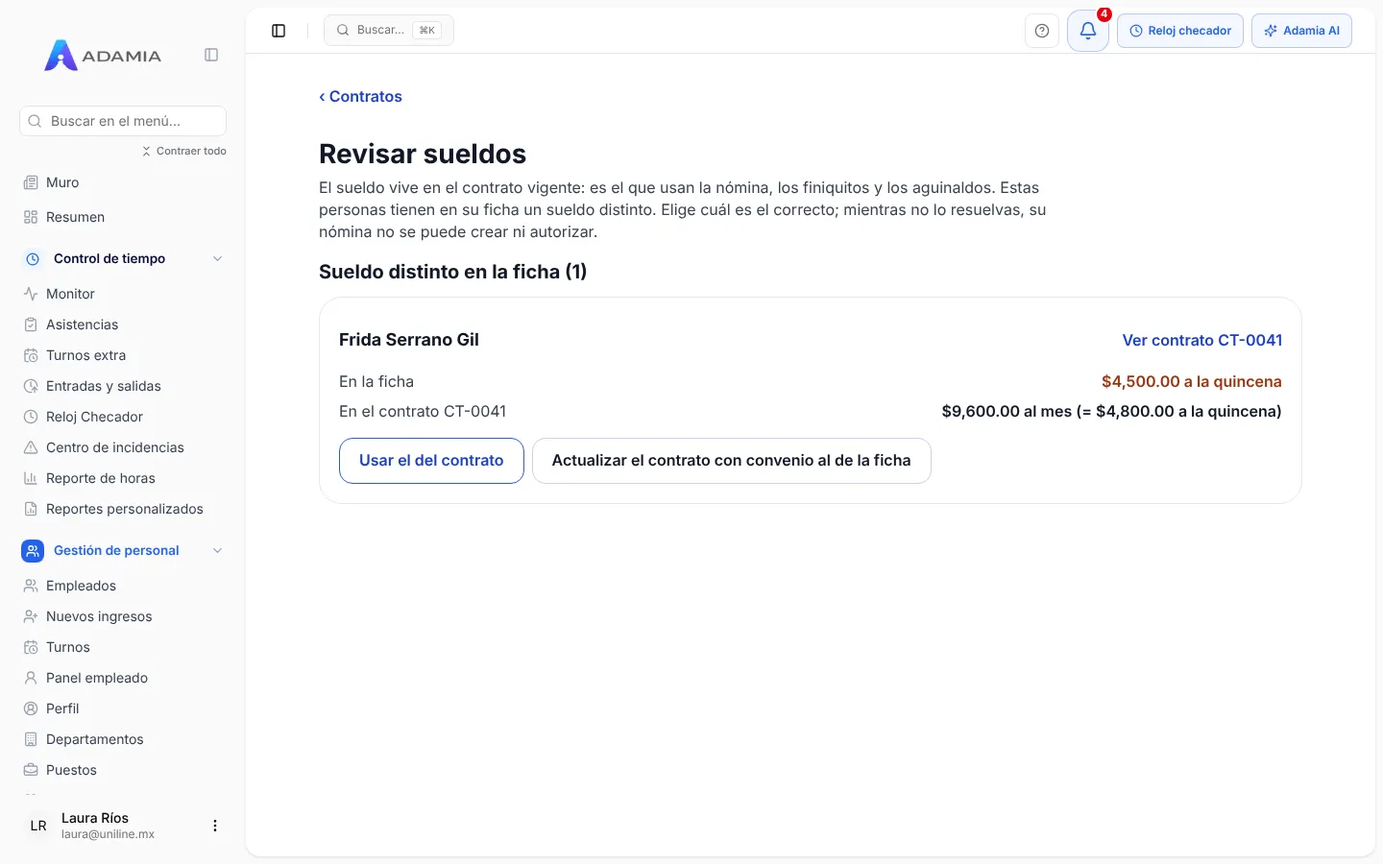
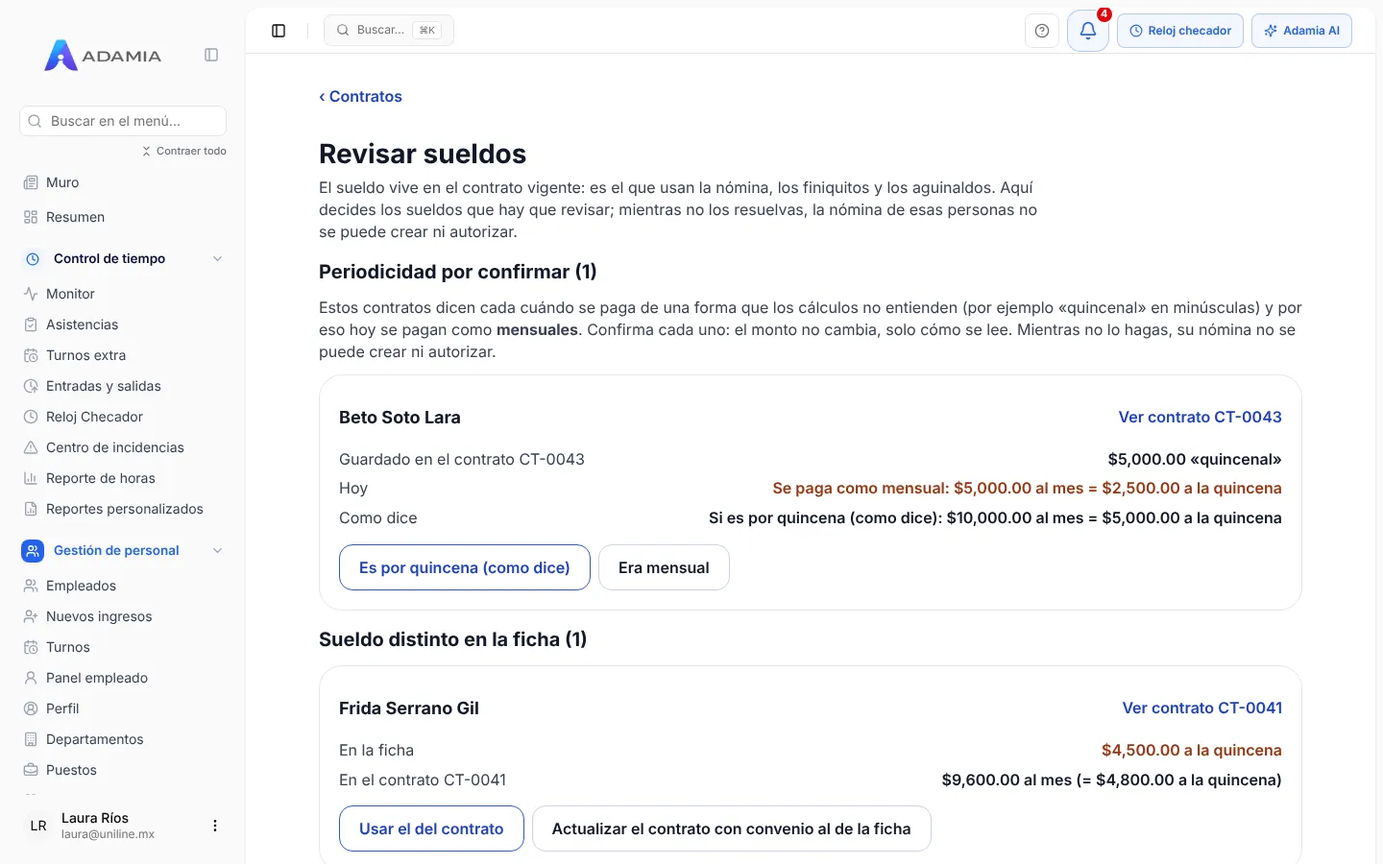
Revisar sueldos: periodicidad por confirmar; hojas de celular y ventana de cambios más legibles
- «Periodicidad por confirmar» (opción C del dueño) en /panel/contratos/revisar-sueldos: persona, folio, lo guardado,
  cómo se paga hoy (como mensual) y cómo quedaría como dice; «Es por quincena (como dice)» o «Era mensual» con
  confirmación (el monto no cambia). Aviso en el detalle del contrato y en la nómina (cada persona con su motivo).
  Textos en src/lib/contratos/periodicidadPorConfirmar.mjs con pruebas (scripts/test-contratos.mjs).
- Hojas de celular (drawer.jsx): ya no se cierran al tocar afuera; solo con su X, Esc o deslizando. El menú del Navbar
  es `menu` y sí. Los filtros de Empleados y Asistencias llevan una X de 48 px. Prueba: scripts/verify-hojas.mjs (CI).
- Ventana «Tienes cambios sin guardar»: letra de 16 px y botones de 48 px (lo revisa verify-contratos).
- verify-contratos: sección de periodicidad, su decisión y el aviso de la nómina. Ayuda y captura de Revisar sueldos.

Claude-Session: https://claude.ai/code/session_01NhptVx6z76FbmDFgGXfLvf

diff --git a/src/app/panel/contratos/revisar-sueldos/page.jsx b/src/app/panel/contratos/revisar-sueldos/page.jsx
@@ -2,7 +2,8 @@
 
 // «Revisar sueldos» (27/11/2026, decisión del dueño: nunca se cambia un sueldo en silencio). El sueldo vive en el
 // contrato vigente; si la ficha dice otro, RH elige cuál es el correcto. Mientras haya diferencias, la nómina de esas
-// personas no se crea ni se autoriza (se puede ver). Aquí también se corrigen las personas con más de un contrato vigente.
+// personas no se crea ni se autoriza (se puede ver). Aquí también se corrigen las personas con más de un contrato vigente
+// y (27/11/2026, opción C del dueño) se confirma la periodicidad de los contratos que los cálculos leían como mensuales.
 import { useState } from "react";
 import Link from "next/link";
 import useSWR from "swr";
@@ -13,6 +14,7 @@ import { TarjetaDetalle, BotonAccion, FilaDato, ListaDatos } from "@/components/
 import { Dialog, DialogContent, DialogDescription, DialogFooter, DialogHeader, DialogTitle } from "@/components/ui/dialog";
 import { contratosApi } from "@/lib/contratosApi";
 import { dinero, porPeriodo, fechaCorta, TIPOS, mensajeDeError } from "@/lib/contratos/detalleContrato.mjs";
+import { textoPeriodicidad, explicaDecision } from "@/lib/contratos/periodicidadPorConfirmar.mjs";
 
 const OPCIONES = {
   usar_contrato: {
@@ -41,7 +43,10 @@ export default function RevisarSueldosPage() {
     setEnviando(true);
     setErrorDialogo("");
     try {
-      if (confirmar.tipo === "sueldo") {
+      if (confirmar.tipo === "periodicidad") {
+        const r = await contratosApi.resolverPeriodicidad({ idEmpresa, idEmpleado: confirmar.persona.id_empleado, idContrato: confirmar.persona.id_contrato, decision: confirmar.decision });
+        enqueueSnackbar(`Listo: el contrato ${confirmar.persona.folio ?? ""} quedó ${String(r.despues).toLowerCase()}.`, { variant: "success" });
+      } else if (confirmar.tipo === "sueldo") {
         await contratosApi.resolverSueldo({ idEmpresa, idEmpleado: confirmar.persona.id_empleado, decision: confirmar.decision });
         enqueueSnackbar(`Listo: el sueldo de ${confirmar.persona.nombre} ya coincide.`, { variant: "success" });
       } else {
@@ -59,13 +64,15 @@ export default function RevisarSueldosPage() {
 
   const diferencias = data?.diferencias ?? [];
   const duplicados = data?.duplicados ?? [];
+  const periodicidades = data?.periodicidades ?? [];
+  const tituloConfirmar = !confirmar ? "" : confirmar.tipo === "periodicidad" ? confirmar.texto : confirmar.tipo === "sueldo" ? OPCIONES[confirmar.decision].texto : "Conservar un contrato";
   return (
     <div className="mx-auto flex w-full max-w-5xl flex-col gap-4 text-[17px] text-[#111827] lg:text-[16px]" data-vista="revisar-sueldos">
       <nav aria-label="Ruta"><Link href="/panel/contratos" className="inline-flex min-h-12 items-center text-[17px] font-semibold text-[#1E40C4] no-underline lg:text-[16px]">‹ Contratos</Link></nav>
       <header className="flex flex-col gap-1">
         <h1 className="m-0 text-[26px] font-bold lg:text-[28px]">Revisar sueldos</h1>
         <p className="m-0 max-w-3xl text-[#374151]">
-          El sueldo vive en el contrato vigente: es el que usan la nómina, los finiquitos y los aguinaldos. Estas personas tienen en su ficha un sueldo distinto. Elige cuál es el correcto; mientras no lo resuelvas, su nómina no se puede crear ni autorizar.
+          El sueldo vive en el contrato vigente: es el que usan la nómina, los finiquitos y los aguinaldos. Aquí decides los sueldos que hay que revisar; mientras no los resuelvas, la nómina de esas personas no se puede crear ni autorizar.
         </p>
       </header>
       {empresas.length > 1 ? (
@@ -83,10 +90,38 @@ export default function RevisarSueldosPage() {
         <p className="m-0 rounded-2xl bg-[#EEF2FF] px-4 py-3 text-[#1E3A8A]">Puedes ver las diferencias; para resolverlas falta que ADAMIA termine de actualizar tu cuenta.</p>
       ) : null}
 
-      {data && !diferencias.length && !duplicados.length ? (
+      {data && !diferencias.length && !duplicados.length && !periodicidades.length ? (
         <TarjetaDetalle titulo="Todo en orden" data-vacio>
           <p className="m-0 text-[#374151]">Los sueldos de las fichas coinciden con sus contratos vigentes y nadie tiene dos contratos vigentes.</p>
         </TarjetaDetalle>
+      ) : null}
+
+      {periodicidades.length ? (
+        <section aria-labelledby="h-periodicidad" className="flex flex-col gap-3" data-seccion="periodicidad">
+          <h2 id="h-periodicidad" className="m-0 text-[20px] font-bold">Periodicidad por confirmar ({periodicidades.length})</h2>
+          <p className="m-0 text-[#374151]">
+            Estos contratos dicen cada cuándo se paga de una forma que los cálculos no entienden (por ejemplo «quincenal» en minúsculas) y por eso hoy se pagan como <b>mensuales</b>. Confirma cada uno: el monto no cambia, solo cómo se lee. Mientras no lo hagas, su nómina no se puede crear ni autorizar.
+          </p>
+          {periodicidades.map((p) => {
+            const t = textoPeriodicidad(p);
+            return (
+              <TarjetaDetalle key={p.id_contrato} titulo={p.nombre} data-periodicidad={p.id_contrato}
+                accion={<Link href={`/panel/contratos/${p.id_contrato}`} className="inline-flex min-h-12 items-center font-semibold text-[#1E40C4]">Ver contrato {p.folio ?? ""}</Link>}>
+                <ListaDatos>
+                  <FilaDato etiqueta={`Guardado en el contrato ${p.folio ?? ""}`} valor={t.guardado} />
+                  <FilaDato etiqueta="Hoy" valor={t.hoy} tono="aviso" />
+                  {t.comoDice ? <FilaDato etiqueta="Como dice" valor={t.comoDice} /> : null}
+                </ListaDatos>
+                <div className="mt-2 flex flex-col gap-2 sm:flex-row sm:flex-wrap">
+                  {t.opciones.map((o, i) => (
+                    <BotonAccion key={o.decision} accion={{ clave: `periodicidad-${o.decision}`, texto: o.texto, tipo: i === 0 ? "contorno" : "normal",
+                      onClick: () => { setErrorDialogo(""); setConfirmar({ tipo: "periodicidad", decision: o.decision, texto: o.texto, persona: p }); } }} />
+                  ))}
+                </div>
+              </TarjetaDetalle>
+            );
+          })}
+        </section>
       ) : null}
 
       {diferencias.length ? (
@@ -138,9 +173,9 @@ export default function RevisarSueldosPage() {
       <Dialog open={Boolean(confirmar)} onOpenChange={(v) => { if (!v) setConfirmar(null); }}>
         <DialogContent className="w-[calc(100vw-24px)] max-w-lg rounded-3xl p-5 sm:p-6">
           <DialogHeader className="text-left">
-            <DialogTitle className="text-[20px] font-bold">{confirmar?.tipo === "sueldo" ? OPCIONES[confirmar.decision].texto : "Conservar un contrato"}</DialogTitle>
+            <DialogTitle className="text-[20px] font-bold">{tituloConfirmar}</DialogTitle>
             <DialogDescription className="text-[17px] text-[#374151] lg:text-[16px]">
-              {confirmar?.tipo === "sueldo"
+              {confirmar?.tipo === "periodicidad" ? explicaDecision(confirmar.persona, confirmar.decision) : confirmar?.tipo === "sueldo"
                 ? OPCIONES[confirmar.decision].explica(confirmar.persona)
                 : confirmar ? `Se queda vigente ${confirmar.persona.contratos.find((c) => Number(c.id) === Number(confirmar.conservar))?.folio}; los demás contratos de ${confirmar.persona.nombre} se terminan con el motivo «Duplicado».` : ""}
             </DialogDescription>

diff --git a/src/components/nomina/AvisoSueldosPorRevisar.jsx b/src/components/nomina/AvisoSueldosPorRevisar.jsx
@@ -5,20 +5,42 @@ import { dinero } from "@/lib/nomina/nomina.mjs";
 
 const POR = { Mensual: "al mes", Quincenal: "a la quincena", Catorcenal: "a la catorcena", Semanal: "a la semana", Diario: "al día", "Por hora": "por hora" };
 
-/** personas: [{ id_empleado, nombre, sueldo_ficha, periodo_ficha, contrato_en_periodo_ficha, folio }]. accion: «crear» | «autorizar». */
+/**
+ * personas: [{ motivo, id_empleado, nombre, folio, … }]. motivo «diferencia»: sueldo_ficha, periodo_ficha,
+ * contrato_en_periodo_ficha. motivo «periodicidad_por_confirmar» (27/11/2026): periodicidad_guardada (el contrato se paga
+ * como mensual hasta que RH la confirme). accion: «crear» | «autorizar».
+ */
 export default function AvisoSueldosPorRevisar({ personas = [], accion = "autorizar" }) {
   if (!personas.length) return null;
+  const periodicidad = personas.filter((p) => p.motivo === "periodicidad_por_confirmar");
+  const diferencia = personas.filter((p) => p.motivo !== "periodicidad_por_confirmar");
   return (
     <div role="alert" className="rounded-2xl border border-amber-300 bg-amber-50 px-4 py-3 text-[16px] text-amber-900" data-aviso="sueldos-por-revisar">
       <p className="m-0 font-bold">No se puede {accion} esta nómina: hay sueldos por revisar.</p>
-      <p className="m-0 mt-1">El sueldo de la ficha no coincide con el del contrato vigente de:</p>
-      <ul className="m-0 mt-1 list-disc pl-5">
-        {personas.map((p) => (
-          <li key={p.id_empleado}>
-            <b>{p.nombre}</b>: ficha {dinero(p.sueldo_ficha)} {POR[p.periodo_ficha] ?? ""} · contrato{p.folio ? ` ${p.folio}` : ""} {dinero(p.contrato_en_periodo_ficha)} {POR[p.periodo_ficha] ?? ""}
-          </li>
-        ))}
-      </ul>
+      {diferencia.length ? (
+        <>
+          <p className="m-0 mt-1">El sueldo de la ficha no coincide con el del contrato vigente de:</p>
+          <ul className="m-0 mt-1 list-disc pl-5">
+            {diferencia.map((p) => (
+              <li key={p.id_empleado}>
+                <b>{p.nombre}</b>: ficha {dinero(p.sueldo_ficha)} {POR[p.periodo_ficha] ?? ""} · contrato{p.folio ? ` ${p.folio}` : ""} {dinero(p.contrato_en_periodo_ficha)} {POR[p.periodo_ficha] ?? ""}
+              </li>
+            ))}
+          </ul>
+        </>
+      ) : null}
+      {periodicidad.length ? (
+        <>
+          <p className="m-0 mt-1">Periodicidad por confirmar (su contrato se está pagando como mensual):</p>
+          <ul className="m-0 mt-1 list-disc pl-5" data-periodicidad-por-confirmar>
+            {periodicidad.map((p) => (
+              <li key={p.id_empleado}>
+                <b>{p.nombre}</b>: contrato{p.folio ? ` ${p.folio}` : ""} dice «{p.periodicidad_guardada ?? "sin periodicidad"}»
+              </li>
+            ))}
+          </ul>
+        </>
+      ) : null}
       <Link href="/panel/contratos/revisar-sueldos" className="mt-2 inline-flex min-h-12 items-center rounded-[14px] bg-[#2C56E8] px-5 font-bold text-white no-underline hover:bg-[#1E40C4]">
         Revisar sueldos
       </Link>

diff --git a/src/components/cambios/CambiosPendientes.jsx b/src/components/cambios/CambiosPendientes.jsx
@@ -23,6 +23,7 @@ import { debeDetenerEnlace, decidirTrasGuardar, rutaInterna } from "@/lib/cambio
 const Contexto = createContext(null);
 const MARCA = "__cambiosPendientes";
 
+// (27/11/2026, regla del dueño) La ventana se lee bien a los 60 años: letra de 16 px y botones de 48 px.
 export function CambiosPendientesProvider({ children }) {
   const router = useRouter();
   const guardias = useRef(new Map()); // id → { hayCambios, guardar, descartada }
@@ -194,15 +195,15 @@ export function CambiosPendientesProvider({ children }) {
       <AlertDialog open={Boolean(pregunta)} onOpenChange={(abierto) => { if (!abierto) seguirEditando(); }}>
         <AlertDialogContent data-dialogo-cambios className="max-w-[calc(100%-2rem)] gap-5 sm:max-w-md">
           <AlertDialogHeader>
-            <AlertDialogTitle className="text-[#080d36]">Tienes cambios sin guardar</AlertDialogTitle>
-            <AlertDialogDescription>¿Qué quieres hacer? Si sales sin guardar, los cambios se pierden.</AlertDialogDescription>
+            <AlertDialogTitle className="text-[20px] font-bold text-[#080d36]">Tienes cambios sin guardar</AlertDialogTitle>
+            <AlertDialogDescription className="text-[16px] text-[#374151]">¿Qué quieres hacer? Si sales sin guardar, los cambios se pierden.</AlertDialogDescription>
           </AlertDialogHeader>
           <AlertDialogFooter className="flex-col gap-2 sm:flex-col sm:justify-stretch">
             <button
               type="button"
               onClick={guardarYSalir}
               disabled={guardando}
-              className="min-h-[44px] w-full rounded-lg bg-[#2563EB] px-4 text-sm font-semibold text-white hover:bg-[#1d4ed8] disabled:opacity-60"
+              className="min-h-12 w-full rounded-lg bg-[#2563EB] px-4 text-[16px] font-semibold text-white hover:bg-[#1d4ed8] disabled:opacity-60"
             >
               {guardando ? "Guardando…" : "Guardar y salir"}
             </button>
@@ -210,7 +211,7 @@ export function CambiosPendientesProvider({ children }) {
               type="button"
               onClick={salirSinGuardar}
               disabled={guardando}
-              className="min-h-[44px] w-full rounded-lg border border-red-200 bg-white px-4 text-sm font-semibold text-red-700 hover:bg-red-50 disabled:opacity-60"
+              className="min-h-12 w-full rounded-lg border border-red-200 bg-white px-4 text-[16px] font-semibold text-red-700 hover:bg-red-50 disabled:opacity-60"
             >
               Salir sin guardar
             </button>
@@ -219,7 +220,7 @@ export function CambiosPendientesProvider({ children }) {
               onClick={seguirEditando}
               disabled={guardando}
               autoFocus
-              className="min-h-[44px] w-full rounded-lg px-4 text-sm font-medium text-slate-600 hover:bg-slate-100 disabled:opacity-60"
+              className="min-h-12 w-full rounded-lg px-4 text-[16px] font-semibold text-[#374151] hover:bg-slate-100 disabled:opacity-60"
             >
               Seguir editando
             </button>

diff --git a/src/app/panel/registro-asistencia/MobileFiltersDrawer.jsx b/src/app/panel/registro-asistencia/MobileFiltersDrawer.jsx
@@ -7,6 +7,7 @@ import {
   DrawerTitle,
   DrawerDescription,
 } from "@/components/ui/drawer";
+import { X } from "lucide-react";
 import { Switch } from "@/components/ui/switch";
 import { cn } from "@/lib/utils";
 import dayjs from "dayjs";
@@ -172,8 +173,8 @@ export default function MobileFiltersDrawer({
         <div className="w-10 h-1.5 rounded-full bg-gray-300 mx-auto mt-3 shrink-0" />
 
         <div className="px-6 pt-4 pb-3 shrink-0 border-b border-gray-100">
-          <div className="flex items-start justify-between gap-3">
-            <div>
+          <div className="flex items-start gap-3">
+            <div className="mr-auto">
               <DrawerTitle className="text-xl font-extrabold tracking-tight text-gray-900">
                 Filtros
               </DrawerTitle>
@@ -192,6 +193,15 @@ export default function MobileFiltersDrawer({
               className="text-sm font-semibold text-brand min-h-[44px] px-2"
             >
               Limpiar
+            </button>
+            <button
+              type="button"
+              aria-label="Cerrar filtros"
+              onClick={() => onOpenChange(false)}
+              data-cerrar-hoja
+              className="flex h-12 w-12 shrink-0 items-center justify-center rounded-full border border-gray-200 bg-white text-gray-700 active:bg-gray-50"
+            >
+              <X className="h-6 w-6" aria-hidden="true" />
             </button>
           </div>
         </div>

diff --git a/src/app/panel/empleados/MobileEmpleadosFiltersDrawer.jsx b/src/app/panel/empleados/MobileEmpleadosFiltersDrawer.jsx
@@ -6,6 +6,7 @@ import {
   DrawerTitle,
   DrawerDescription,
 } from "@/components/ui/drawer";
+import { X } from "lucide-react";
 import { cn } from "@/lib/utils";
 
 function FilterSection({ title, options, selected, onChange }) {
@@ -85,8 +86,8 @@ export default function MobileEmpleadosFiltersDrawer({
         <div className="w-10 h-1.5 rounded-full bg-gray-300 mx-auto mt-3 shrink-0" />
 
         <div className="px-6 pt-4 pb-2 shrink-0">
-          <div className="flex items-start justify-between gap-3">
-            <div>
+          <div className="flex items-start gap-3">
+            <div className="mr-auto">
               <DrawerTitle className="text-xl font-bold text-gray-900">
                 Filtros
               </DrawerTitle>
@@ -100,6 +101,15 @@ export default function MobileEmpleadosFiltersDrawer({
               className="text-sm font-medium text-blue-600"
             >
               Limpiar
+            </button>
+            <button
+              type="button"
+              aria-label="Cerrar filtros"
+              onClick={() => onOpenChange(false)}
+              data-cerrar-hoja
+              className="flex h-12 w-12 shrink-0 items-center justify-center rounded-full border border-gray-200 bg-white text-gray-700 active:bg-gray-50"
+            >
+              <X className="h-6 w-6" aria-hidden="true" />
             </button>
           </div>
         </div>

diff --git a/src/app/panel/contratos/[id]/DetalleContrato.jsx b/src/app/panel/contratos/[id]/DetalleContrato.jsx
@@ -130,6 +130,10 @@ export default function DetalleContrato({ id }) {
       clave: "diferencia", tono: "aviso",
       texto: <>La ficha dice {dinero(data.sueldo.diferencia_ficha.sueldo_ficha, { centavos: "siempre" })} {porPeriodo(data.sueldo.diferencia_ficha.periodo_ficha)} y el contrato {dinero(data.sueldo.diferencia_ficha.contrato_en_periodo_ficha, { centavos: "siempre" })}. Mientras no lo resuelvas no se autoriza la nómina. <Link href="/panel/contratos/revisar-sueldos" className="font-semibold text-[#1E40C4] underline">Revisar sueldos</Link></>,
     } : null,
+    data.sueldo?.periodicidad_por_confirmar ? {
+      clave: "periodicidad", tono: "aviso",
+      texto: <>Este contrato dice que se paga «{data.sueldo.periodicidad_por_confirmar.guardada ?? "sin periodicidad"}» y los cálculos lo están pagando como <b>mensual</b>. Confírmalo en <Link href="/panel/contratos/revisar-sueldos" className="font-semibold text-[#1E40C4] underline">Revisar sueldos</Link>; mientras tanto no se autoriza la nómina.</>,
+    } : null,
     data.otros_vigentes?.length ? {
       clave: "duplicado", tono: "error",
       texto: <>Esta persona tiene otro contrato vigente ({data.otros_vigentes.map((o) => o.folio).join(", ")}). Solo puede haber uno: <Link href="/panel/contratos/revisar-sueldos" className="font-semibold text-[#1E40C4] underline">elige cuál se queda</Link>.</>,

diff --git a/src/components/ui/drawer.jsx b/src/components/ui/drawer.jsx
@@ -31,12 +31,17 @@ const DrawerOverlay = React.forwardRef(({ className, ...props }, ref) => (
 ));
 DrawerOverlay.displayName = DrawerPrimitive.Overlay.displayName;
 
+// (27/11/2026, regla del dueño, docs/vistas-de-detalle.md) Una hoja con contenido (filtros, detalle) NO se cierra con
+// un toque afuera: solo con su botón de cerrar o la X, con Esc o deslizándola hacia abajo. Las que son un MENÚ (menú del
+// Navbar en celular) pasan `menu` y sí se cierran al tocar afuera, como cualquier menú.
 const DrawerContent = React.forwardRef(
-  ({ className, children, pull = true, ...props }, ref) => (
+  ({ className, children, pull = true, menu = false, onPointerDownOutside, onInteractOutside, ...props }, ref) => (
     <DrawerPortal>
       <DrawerOverlay />
       <DrawerPrimitive.Content
         ref={ref}
+        onPointerDownOutside={(e) => { onPointerDownOutside?.(e); if (!menu) e.preventDefault(); }}
+        onInteractOutside={(e) => { onInteractOutside?.(e); if (!menu) e.preventDefault(); }}
         className={cn(
           "fixed inset-x-0 bottom-0 z-50 mt-24 flex h-auto flex-col rounded-t-[10px] border bg-background",
           className,

diff --git a/src/lib/contratosApi.js b/src/lib/contratosApi.js
@@ -110,6 +110,10 @@ export const contratosApi = {
   async resolverSueldo({ idEmpresa, idEmpleado, decision }) {
     return (await axios.post("/checador/contratos/revisar-sueldos/resolver", { id_empresa: idEmpresa, id_empleado: idEmpleado, decision }, { headers: authHeaders() })).data;
   },
+  // (27/11/2026) Periodicidad por confirmar: decision "como_dice" | "mensual". Nunca cambia el monto.
+  async resolverPeriodicidad({ idEmpresa, idEmpleado, idContrato, decision }) {
+    return (await axios.post("/checador/contratos/periodicidad/resolver", { id_empresa: idEmpresa, id_empleado: idEmpleado, id_contrato: idContrato, decision }, { headers: authHeaders() })).data;
+  },
   async resolverDuplicado({ idEmpresa, idEmpleado, conservar }) {
     return (await axios.post("/checador/contratos/duplicados/resolver", { id_empresa: idEmpresa, id_empleado: idEmpleado, conservar }, { headers: authHeaders() })).data;
   },

diff --git a/src/components/Navbar.jsx b/src/components/Navbar.jsx
@@ -326,7 +326,7 @@ const MenuResposive = ({
           height="24"
         />
       </DrawerTrigger>
-      <DrawerContent className="mt-0 inset-y-0 w-60 bottom-0 z-50 rounded-r-sm rounded-l-none px-4 py-4">
+      <DrawerContent menu className="mt-0 inset-y-0 w-60 bottom-0 z-50 rounded-r-sm rounded-l-none px-4 py-4">
         <div className="flex flex-col h-full justify-between">
           <div className="flex flex-col space-y-3 mt-2">
             {mobilePublicLinks.map((item) => (

diff --git a/src/content/ayuda/documentos/contratos.md b/src/content/ayuda/documentos/contratos.md
@@ -4,10 +4,10 @@ resumen: Registra el contrato de cada persona, revisa su sueldo y su texto, fír
 modulo: documentos
 audiencia: [rh, dueno]
 pantallas: [/panel/contratos, /panel/contratos/[id], /panel/contratos/[id]/editar, /panel/contratos/nuevo, /panel/contratos/revisar-sueldos]
-palabras: [contratos, contrato laboral, editar contrato, duplicar contrato, nuevo contrato, vigencia, por vencer, vencido, renovar, convenio, cambiar sueldo, firmar contrato, mandar a firmar, revisar sueldos, sueldo del contrato, contrato vigente, indefinido, temporal, periodo de prueba, terminar contrato]
+palabras: [contratos, contrato laboral, periodicidad por confirmar, quincenal, editar contrato, duplicar contrato, nuevo contrato, vigencia, por vencer, vencido, renovar, convenio, cambiar sueldo, firmar contrato, mandar a firmar, revisar sueldos, sueldo del contrato, contrato vigente, indefinido, temporal, periodo de prueba, terminar contrato]
 orden: 60
 actualizado: 2026-11-27
-fuentes: [src/app/panel/contratos/page.jsx, src/app/panel/contratos/ContratosTable.jsx, src/app/panel/contratos/formulario/FormularioContrato.jsx, src/lib/contratos/formularioContrato.mjs, src/app/panel/contratos/CambiarEstatusContrato.jsx, src/app/panel/contratos/[id]/DetalleContrato.jsx, src/app/panel/contratos/[id]/DialogosContrato.jsx, src/app/panel/contratos/revisar-sueldos/page.jsx, src/lib/contratos/detalleContrato.mjs, src/components/avisos/CampanaAvisos.jsx]
+fuentes: [src/app/panel/contratos/page.jsx, src/app/panel/contratos/ContratosTable.jsx, src/app/panel/contratos/formulario/FormularioContrato.jsx, src/lib/contratos/formularioContrato.mjs, src/lib/contratos/periodicidadPorConfirmar.mjs, src/app/panel/contratos/CambiarEstatusContrato.jsx, src/app/panel/contratos/[id]/DetalleContrato.jsx, src/app/panel/contratos/[id]/DialogosContrato.jsx, src/app/panel/contratos/revisar-sueldos/page.jsx, src/lib/contratos/detalleContrato.mjs, src/components/avisos/CampanaAvisos.jsx]
 ---
 
 ## Para qué sirve
@@ -101,6 +101,16 @@ Si el sueldo de la ficha de alguien no coincide con el de su contrato vigente, *
 
 ![Revisar sueldos: la ficha y el contrato con sueldos distintos](/ayuda/capturas/documentos/revisar-sueldos.webp "Elige cuál sueldo es el correcto")
 
+### Periodicidad por confirmar
+
+Algunos contratos de antes guardaron cada cuándo se paga de una forma que los cálculos no entienden (por ejemplo «quincenal» en minúsculas). Esos contratos **se estaban pagando como mensuales**: un contrato de $5,000 «quincenal» se pagaba como $5,000 al mes, es decir $2,500 a la quincena. Aparecen arriba, en **Periodicidad por confirmar**, y mientras no los confirmes **la nómina de esas personas no se puede crear ni autorizar**.
+
+1. En cada contrato ves lo **Guardado** (el monto y cómo dice que se paga), cómo se paga **Hoy** y cómo quedaría **Como dice**.
+2. Elige `Es por quincena (como dice)` (o por semana, por catorcena…) si el monto es de cada periodo, o `Era mensual` si el monto es del mes.
+3. Toca `Confirmar`. **El monto no cambia**, solo cómo se lee. Queda en el historial del contrato con tu nombre y la fecha.
+
+Si eliges «como dice», la persona cobra distinto a partir de la siguiente nómina que calcules; si su ficha no coincide, aparece después en **Sueldo distinto en la ficha** para que decidas cuál es el correcto.
+
 En la misma pantalla aparecen las personas con **más de un contrato vigente** (de antes): elige cuál se queda y toca `Conservar este y terminar los demás`. No se borra ninguno.
 
 ## Cómo renovar o terminar un contrato
@@ -130,6 +140,7 @@ Solo si nadie lo ha firmado ni se mandó a firmar. Si ya existió, termínalo o 
 
 - **…faltan datos para firmar:** verás «Faltan datos para el contrato: CURP, RFC…». Complétalos en la ficha.
 - **…edito un contrato ya enviado a firmar:** verás que su texto ya no cambia; usa un convenio o una renovación.
+- **…un contrato está en «Periodicidad por confirmar»:** se está pagando como mensual; confírmalo en **Revisar sueldos** para poder crear o autorizar su nómina.
 - **…toco afuera de una ventana:** no se cierra (así no pierdes lo que escribiste). Ciérrala con `Esc`, `Cancelar`, `Guardar` o la **X**.
 - **…un dato guardado no está en la lista:** aparece con «(guardado)» para que veas lo que tiene el contrato; solo cambia si eliges otro.
 - **…la fecha del convenio es futura:** verás «La fecha efectiva no puede ser futura». Regístralo el día que aplique.

diff --git a/src/content/ayuda/nomina/como-se-calcula-la-nomina.md b/src/content/ayuda/nomina/como-se-calcula-la-nomina.md
@@ -24,7 +24,7 @@ Recursos Humanos y el dueño de la cuenta. Para el empleado, el recibo en PDF mu
 
 El cálculo usa el **sueldo del contrato vigente** de cada persona; si no tiene contrato vigente, el de su ficha (y el recibo lo marca «sin contrato vigente»). De la ficha usa también el periodo de pago (con él entra a la nómina), el medio de pago y, si es mixto, cuánto va por transferencia, y sus horas por día. De **Asistencias** usa el horario, las checadas, faltas, permisos, festivos y horas extra autorizadas.
 
-> **Importante:** si el sueldo de la ficha de alguien no coincide con el de su contrato vigente, la nómina **no se puede crear ni autorizar** hasta que decidas cuál es el correcto en **Revisar sueldos**. Puedes ver la nómina mientras tanto. Ve [Contratos laborales](/ayuda/documentos/contratos#como-revisar-sueldos).
+> **Importante:** si el sueldo de la ficha de alguien no coincide con el de su contrato vigente, la nómina **no se puede crear ni autorizar** hasta que decidas cuál es el correcto en **Revisar sueldos**. Lo mismo si su contrato tiene la **periodicidad por confirmar** (se estaba pagando como mensual). Puedes ver la nómina mientras tanto. Ve [Contratos laborales](/ayuda/documentos/contratos#como-revisar-sueldos).
 
 ![Aviso de sueldos por revisar en la nómina](/ayuda/capturas/nomina/nomina-sueldos-por-revisar.webp "La nómina no se autoriza con sueldos por revisar")
 

diff --git a/docs/vistas-de-detalle.md b/docs/vistas-de-detalle.md
@@ -44,8 +44,11 @@ Piezas en `src/components/detalle/` (importa desde `@/components/detalle`):
    las ventanas; `alert-dialog.jsx` (Radix) ya no se cerraba afuera; `sheet.jsx` igual, salvo los paneles que son un
    **menú** (`<SheetContent menu>`: menú lateral, «Más acciones», menú de la página pública), que sí se cierran al tocar
    afuera como cualquier menú. Los menús y listas desplegables (Popover, DropdownMenu, Select) no son ventanas.
-   Las hojas `Drawer` (vaul: filtros y detalle en celular, menú del Navbar) no se cambiaron: se cierran deslizando.
-   Prueba: `scripts/verify-contratos.mjs` (paso 2c).
+   Las hojas de celular (`drawer.jsx`, vaul: filtros, detalle) tampoco: se cierran con su X o botón de cerrar, con Esc o
+   deslizándolas hacia abajo; toda hoja sin botón de cerrar visible lleva una X de 48 px. Las que son menú
+   (`<DrawerContent menu>`: menú del Navbar en celular) sí se cierran al tocar afuera.
+   La ventana compartida «Tienes cambios sin guardar» (`CambiosPendientes.jsx`) usa letra de 16 px y botones de 48 px.
+   Pruebas: `scripts/verify-contratos.mjs` (paso 2c) y `scripts/verify-hojas.mjs` (hojas de celular).
 8. Los **datos y las reglas** los da el servidor (en contratos: sueldo vigente, firmas, historial); las vistas solo
    los ponen en palabras con funciones puras probadas (`src/lib/contratos/detalleContrato.mjs`).
 
